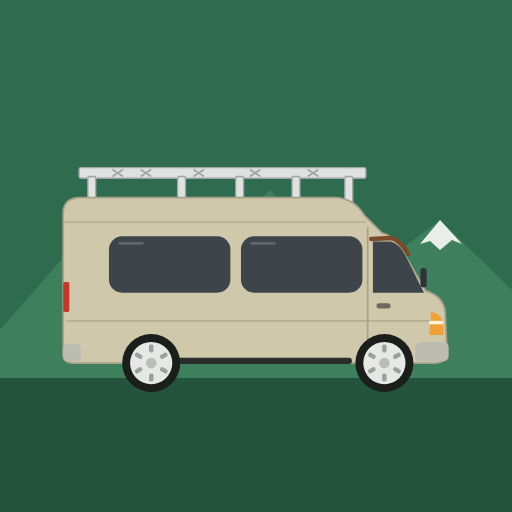
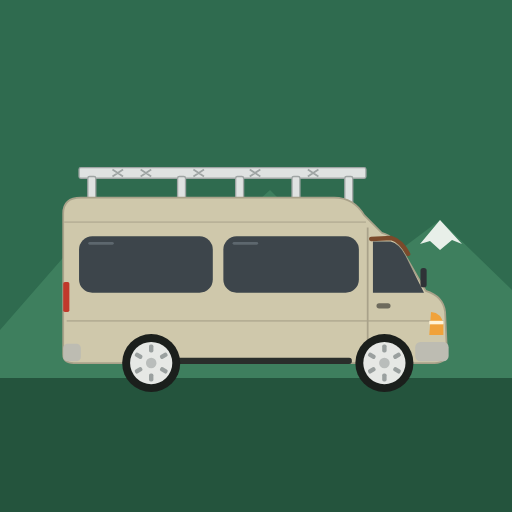
Trip planner: van side windows run closer to the back; van faces up the page in Past
Claude-Session: https://claude.ai/code/session_01LHdGYmdbWbR8JhTrwiU8N7

Changed region(s): [[0.4062, 0.4375, 0.5312, 0.5938], [0.1562, 0.4375, 0.2812, 0.5938], [0.6875, 0.4688, 0.7188, 0.5625]]

diff --git a/trip/index.html b/trip/index.html
@@ -354,11 +354,11 @@ pre.sql{background:var(--paper);border:1px solid var(--line);border-radius:10px;
  <path d="M44 210 L472 210" stroke="#b5ae94" stroke-width="2"/>
  <path d="M41 98 L384 98" stroke="#b9b298" stroke-width="2"/>
  <!-- windows -->
- <rect x="92" y="114" width="138" height="64" rx="15" fill="#3d454b"/>
- <rect x="242" y="114" width="138" height="64" rx="15" fill="#3d454b"/>
+ <rect x="58" y="114" width="152" height="64" rx="15" fill="#3d454b"/>
+ <rect x="222" y="114" width="154" height="64" rx="15" fill="#3d454b"/>
  <path d="M392 120 L412 120 Q422 122 430 138 L450 178 L392 178 Z" fill="#3d454b"/>
  <path d="M390 117 L413 116 Q424 119 432 134" fill="none" stroke="#7b4a2b" stroke-width="5" stroke-linecap="round"/>
- <path d="M104 122 L130 122" stroke="#5d676e" stroke-width="3" stroke-linecap="round"/><path d="M254 122 L280 122" stroke="#5d676e" stroke-width="3" stroke-linecap="round"/>
+ <path d="M70 122 L96 122" stroke="#5d676e" stroke-width="3" stroke-linecap="round"/><path d="M234 122 L260 122" stroke="#5d676e" stroke-width="3" stroke-linecap="round"/>
  <!-- door, handle, mirror -->
  <path d="M386 104 L386 252" stroke="#a9a28a" stroke-width="2"/>
  <rect x="396" y="190" width="16" height="6" rx="3" fill="#6d6a5c"/>
@@ -862,7 +862,8 @@ function moveVan(){const el=$("#daylist"),v=$("#van");
   const dx=(X(y+3)-X(y-3))/6,ang=Math.atan(dx)*57.3;
   v.classList.toggle("aboard",!!(f&&y>f.fa+20&&y<f.fb+236));
   v.classList.toggle("sold",!!((road.sell!=null&&y>=road.sell)||(road.fly&&y>=road.fly.A0)));
-  v.style.transform=`translate(${(X(y)-9).toFixed(1)}px,${(y-14).toFixed(1)}px) rotate(${(-ang).toFixed(1)}deg)`;
+  // Past lists newest first, so there the van drives up the page (back towards today)
+  v.style.transform=`translate(${(X(y)-9).toFixed(1)}px,${(y-14).toFixed(1)}px) rotate(${(-ang+(state.dview==="past"?180:0)).toFixed(1)}deg)`;
   // the flight home, driven by the same scroll pointer: walk to the plane, roll, lift off, Singapore, Brussels
   const fl=road.fly,pe=$("#people"),pl=$("#plane");if(!fl||!pe||!pl)return;
   const P=ptr,PX=fl.PX,gate=fl.park+20;

diff --git a/trip/sw.js b/trip/sw.js
@@ -1,6 +1,6 @@
 /* South Island Loop — offline shell.
    Bump CACHE when you change index.html so the phone picks up the new version. */
-const CACHE = 'loop-v35';
+const CACHE = 'loop-v36';
 const SHELL = ['./', './index.html', './manifest.json', './icon-192.png', './icon-512.png', './plan.json', '../icon-192.png', './contour.svg'];
 const FONTS = ['fonts.googleapis.com', 'fonts.gstatic.com'];
 

diff --git a/sw.js b/sw.js
@@ -1,6 +1,6 @@
 /* Van Budget NZ — offline shell.
    Bump CACHE when you change index.html so phones pick up the new version. */
-const CACHE = 'kea-v20';
+const CACHE = 'kea-v21';
 const SHELL = ['./', './index.html', './manifest.json', './icon-192.png', './icon-512.png', './trip/icon-192.png'];
 
 self.addEventListener('install', e => {

diff --git a/README.md b/README.md
@@ -243,7 +243,7 @@ Works offline and syncs between both phones. Served at **https://draumbear.githu
 |---|---|
 | `trip/index.html` | The whole app. Works offline; syncs through the same Supabase project as Kea. |
 | `trip/plan.json` | Starting plan, used the first time a phone opens the app with nothing shared yet. |
-| `trip/sw.js` | Service worker so it opens with no signal. Bump `CACHE` (`loop-v35`…) when you change `index.html`. |
+| `trip/sw.js` | Service worker so it opens with no signal. Bump `CACHE` (`loop-v36`…) when you change `index.html`. |
 | `trip/manifest.json`, `trip/icon-*.png` | Home-screen install. |
 
 **Install:** open the URL in Chrome → ⋮ → **Add to Home screen / Install app**.
